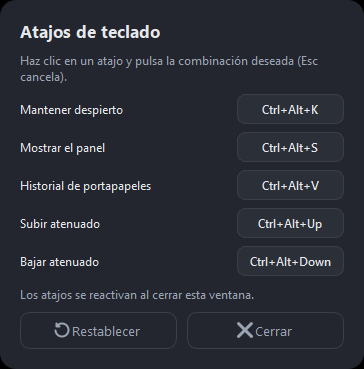
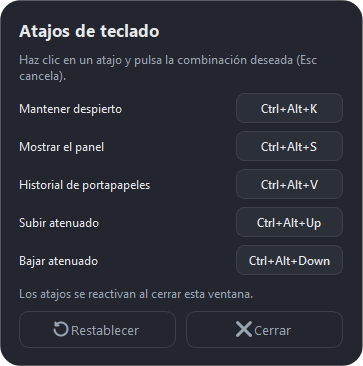
Added menu images

diff --git a/README.md b/README.md
@@ -9,6 +9,10 @@ Utilidades de Windows desde la **bandeja del sistema**, pensadas para ir crecien
 funciones. Al hacer clic en el ícono se despliega, **junto al cursor**, un panel flotante
 moderno.
 
+<p align="center">
+  <img src="images/menu.png" alt="Main Menu">
+</p>
+
 ## Funciones
 
 ### Keep Awake
@@ -43,6 +47,10 @@ moderno.
   - **Ctrl+Alt+V** — abrir el historial de portapapeles.
   - **Ctrl+Alt+↑ / Ctrl+Alt+↓** — subir/bajar la atenuación del monitor bajo el cursor.
 
+<p align="center">
+  <img src="images/preferences.png" alt="Preferences Menu">
+</p>
+
 ### Historial de portapapeles
 - Guarda los últimos **N** elementos copiados (**texto e imágenes**), accesible desde el panel
   ("Abrir historial") o con su hotkey. Elegir un elemento lo vuelve a copiar; con **Auto-pegar**
@@ -51,6 +59,10 @@ moderno.
   **profundidad** (5–200) con un deslizador.
 - **Persiste** entre reinicios en `%APPDATA%\Smart Menu` (texto en JSON, imágenes en PNG). Sin
   duplicados: volver a copiar algo lo mueve arriba.
+
+<p align="center">
+  <img src="images/clipboard.png" alt="Clipbiard Menu">
+</p>
 
 ## Interacción
 